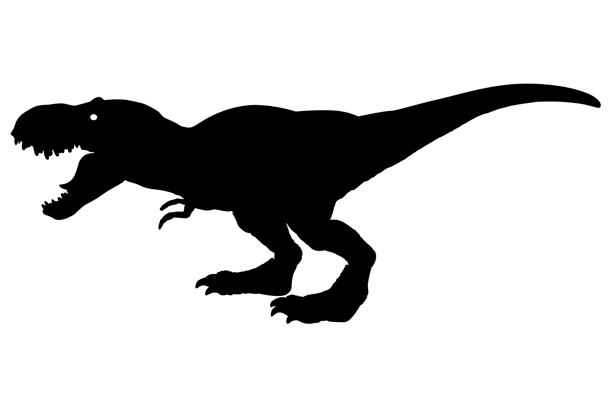
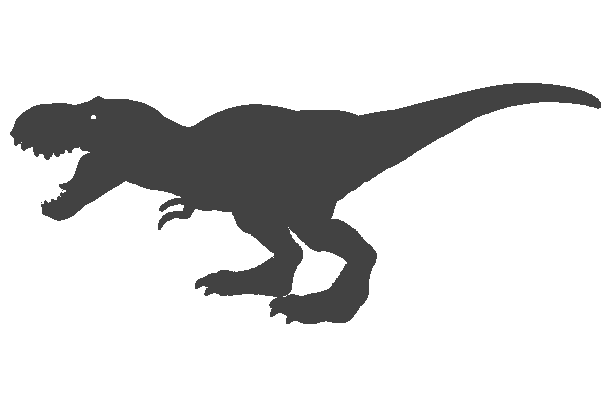
Styling and minor changes

Changed region(s): [[0.0, 0.2059, 0.9935, 0.7941]]

diff --git a/kantor-rex/src/components/kantor_form/kantorForm.tsx b/kantor-rex/src/components/kantor_form/kantorForm.tsx
@@ -1,6 +1,8 @@
 import React, { useState, FormEvent, ChangeEvent } from "react";
 import axios from "axios";
 import { useNavigate } from "react-router-dom";
+import styles from "./kantorForm.module.scss";
+import classNames from "classnames";
 
 interface MarkerData {
   lat: number;
@@ -8,7 +10,7 @@ interface MarkerData {
   title: string;
 }
 
-export const KantorForm: React.FC = () => {
+export const KantorForm = () => {
   const [formData, setFormData] = useState<MarkerData>({
     lat: 0,
     lng: 0,
@@ -54,35 +56,39 @@ export const KantorForm: React.FC = () => {
   };
 
   return (
-    <form onSubmit={handleSubmit}>
-      <label>
-        Latitude:
+    <div className={classNames(styles.form_container)}>
+      <form onSubmit={handleSubmit} className={classNames(styles.form_field_wrapper)}>
+        <label className={classNames(styles.form_label)}>Latitude:</label>
         <input
           type="number"
           name="lat"
           value={formData.lat}
           onChange={handleChange}
+          className={classNames(styles.form_input)}
         />
-      </label>
-      <label>
-        Longitude:
+
+        <label className={classNames(styles.form_label)}>Longitude:</label>
         <input
           type="number"
           name="lng"
           value={formData.lng}
           onChange={handleChange}
+          className={classNames(styles.form_input)}
         />
-      </label>
-      <label>
-        Title:
+
+        <label className={classNames(styles.form_label)}>Title:</label>
         <input
           type="text"
           name="title"
           value={formData.title}
           onChange={handleChange}
+          className={classNames(styles.form_input)}
         />
-      </label>
-      <button type="submit">Dodaj marker</button>
-    </form>
+
+        <button type="submit" className={classNames(styles.form_button)}>
+          Dodaj marker
+        </button>
+      </form>
+    </div>
   );
 };

diff --git a/kantor-rex/src/components/header/header.tsx b/kantor-rex/src/components/header/header.tsx
@@ -2,28 +2,41 @@ import { Link } from "react-router-dom";
 import styles from "./header.module.scss";
 import classNames from "classnames";
 import t_rex from "../../assets/t-rex.png";
+import t_rex_orange from "../../assets/t-rex-orange.png";
+import { useState } from "react";
 
-export interface HeaderProps {
-  className?: string;
-}
+export const Header = () => {
+  const [isHover, setIsHover] = useState(false);
 
-export const Header = ({ className }: HeaderProps) => {
+  const handleHover = (hover: boolean) => {
+    setIsHover(hover);
+  };
+
   return (
-    <div className={classNames(styles.root, className, styles.header)}>
-      <Link to="/" className={styles.a}>
-        <div className={styles.logo}>
-          <h1 className={styles.h1}>Kantor</h1>
-          <img src={t_rex} alt="Rex" className={styles.rex} />
-        </div>
-      </Link>
+    <div className={styles.header}>
       <nav className={styles.nav}>
-        <ul>
-          <li>
+        <ul className={styles.ul}>
+          <li className={styles.li}>
+            <Link
+              to="/"
+              className={classNames(styles.a, styles.logo)}
+              onMouseEnter={() => handleHover(true)}
+              onMouseLeave={() => handleHover(false)}
+            >
+              <h1 className={styles.h1}>Kantor</h1>
+              <img
+                src={isHover ? t_rex_orange : t_rex}
+                alt="Rex"
+                className={classNames(styles.rex, styles.rex_black)}
+              />
+            </Link>
+          </li>
+          <li className={styles.li}>
             <Link to="/add-new-currency-exchange">
               Add New Currency Exchange
             </Link>
           </li>
-          <li>
+          <li className={styles.li}>
             <Link to="/">Map</Link>
           </li>
         </ul>

diff --git a/kantor-rex/src/components/header/header.module.scss b/kantor-rex/src/components/header/header.module.scss
@@ -1,40 +1,44 @@
+@import "../../global_variables";
+
+$header-height: 70px;
+$nav-item-margin: 20px;
+$logo-height: 70px;
+
 .header {
-  height: 70px;
+  height: $header-height;
+  width: 100%;
   display: flex;
-  flex-direction: row;
-  flex-wrap: wrap;
   align-items: center;
-  padding: 0px;
-  margin: 0px;
-  background-color: lavender;
-}
-.rex {
-  display: block;
-  grid-auto-flow: row;
-  position: static;
-  flex-direction: row;
-  flex-wrap: wrap;
-  height: 3em;
-}
-.h1 {
-  display: block;
-  margin: 0;
-  text-decoration-color: #000000;
-}
-.logo {
-  display: flex;
-  align-self: center;
-  flex-direction: row;
-  align-items: center;
-  justify-items: center;
-  flex-wrap: wrap;
-  align-content: center;
-  justify-content: space-evenly;
-  position: relative;
-}
-.a {
-  position: relative;
-  text-decoration: none;
-  color: inherit;
-  left: 20px;
+  background-color: $secondary-color;
+  .nav {
+    ul {
+      list-style: none;
+      display: flex;
+      align-items: center;
+      margin: 0;
+      padding: 0;
+      li {
+        margin-left: $nav-item-margin;
+        display: inline;
+        a {
+          text-decoration: none;
+          color: $primary-color;
+          &:hover {
+            color: $accent-color;
+          }
+        }
+        .logo {
+          display: flex;
+          flex-direction: row;
+          align-items: center;
+          .h1 {
+            margin: 0;
+          }
+          .rex {
+            height: $logo-height;
+          }
+        }
+      }
+    }
+  }
 }

diff --git a/kantor-rex/src/components/kantor_form/kantorForm.module.scss b/kantor-rex/src/components/kantor_form/kantorForm.module.scss
@@ -1,0 +1,50 @@
+@import "../../global_variables";
+
+$label_margin: 10px;
+$button_margin: 20px;
+$input_padding: 10px 15px;
+$input_border_radius: 5px;
+$input_border: 1px solid $secondary-color;
+$input_width: 70%;
+$button_background_color: $accent-color;
+$button_text_color: $secondary-color;
+$label_color: $secondary-color;
+$button_padding: 10px 20px;
+$button_border: none;
+$button_border_radius: 5px;
+$button_cursor: pointer;
+
+.form_container {
+  display: flex;
+  justify-content: center;
+  .form_field_wrapper {
+    width: 100%;
+    max-width: 1000px;
+    display: flex;
+    flex-direction: column;
+    align-items: center;
+    .form_label {
+      color: $label_color;
+      margin-top: $label_margin;
+    }
+    .form_input {
+      background-color: $secondary-color;
+      padding: $input_padding;
+      border-radius: $input_border_radius;
+      border: $input_border;
+      width: 100%;
+      box-sizing: border-box;
+    }
+    .form_button {
+      background-color: $button_background_color;
+      color: $button_text_color;
+      padding: $button_padding;
+      border: $button_border;
+      border-radius: $button_border_radius;
+      cursor: $button_cursor;
+      width: 100%;
+      box-sizing: border-box;
+      margin-top: $button_margin + $label_margin;
+    }
+  }
+}

diff --git a/kantor-rex/src/App.module.scss b/kantor-rex/src/App.module.scss
@@ -1,44 +1,29 @@
+@import 'global_variables';
+body{
+  background-color: $primary-color;
+}
 .App {
-  text-align: center;
-  display: flex;
-  justify-items: center;
-  background-color: #282c34;
-  width: 100vw;
-  flex-direction: column;
-  position: absolute;
-  height: 100vh;
-}
-
-.App-logo {
-  height: 40vmin;
-  pointer-events: none;
-}
-
-@media (prefers-reduced-motion: no-preference) {
-  .App-logo {
-    animation: App-logo-spin infinite 20s linear;
-  }
-}
-
-.App-content {
+  width: 100%;
+  margin: 0;
+  padding: 0;
   display: flex;
   flex-direction: column;
-  align-items: center;
-  justify-content: center;
-  font-size: calc(10px + 2vmin);
-  color: white;
-  align-content: center;
+  .Content {
+    width: 100%;
+    display: flex;
+    flex: 1;
+    text-align: center;
+    justify-items: center;
+    flex-direction: column;
+    align-items: center;
+    font-size: calc(10px + 2vmin);
+    color: $secondary-color;
+    a{
+      color: inherit;
+      &:hover{
+        color: $accent-color;
+      }
+    }
+  }
 }
 
-.App-link {
-  color: #61dafb;
-}
-
-@keyframes App-logo-spin {
-  from {
-    transform: rotate(0deg);
-  }
-  to {
-    transform: rotate(360deg);
-  }
-}

diff --git a/kantor-rex/src/App.tsx b/kantor-rex/src/App.tsx
@@ -1,9 +1,10 @@
 import React from "react";
 import { BrowserRouter as Router, Routes, Route, Link } from "react-router-dom";
+import classNames from "classnames";
 import styles from "./App.module.scss";
 import { Header } from "./components/header/header";
 import Map from "./components/map/map";
-import { KantorForm } from "./components/kantor_form/KantorForm";
+import { KantorForm } from "./components/kantor_form/kantorForm";
 
 export default function App() {
   return (
@@ -20,21 +21,13 @@ export default function App() {
 }
 
 function AppContent() {
-  const [data, setData] = React.useState(null);
-  React.useEffect(() => {
-    fetch("/api")
-      .then((res) => res.json())
-      .then((data) => setData(data.message));
-  }, []);
-
   return (
-    <div className={styles["App-content"]}>
+    <div className={classNames(styles.App, styles.Content)}>
       <h2>Znajdź kantor w okolicy i sprawdź jego kurs</h2>
       <Map />
       <Link to="/add-new-currency-exchange">
         <h3>Nie ma Twojego ulubionego kantoru? Dodaj go do naszego serwisu</h3>
       </Link>
-      <p>{data}</p>
     </div>
   );
 }

diff --git a/kantor-rex/src/components/map/map.tsx b/kantor-rex/src/components/map/map.tsx
@@ -15,7 +15,6 @@ interface MarkerData {
 }
 
 const center = { lat: 54.465336805884164, lng: 17.02574142924235 };
-// const markerPosition = { lat: 54.45232, lng: 17.04403 };
 const defaultMarkers: MarkerData[] = [
   {id: 1, lat: 64.45232, lng: 17.04403, title: "Akademik"},
   {id: 2, lat: 54.46118, lng: 25.04829, title: "Uczelnia"},

diff --git a/kantor-rex/src/components/map/map.module.scss b/kantor-rex/src/components/map/map.module.scss
@@ -1,11 +1,6 @@
-.root {
-  display: flex;
+.map {
   height: 500px;
   width: 500px;
-}
-.map {
-  width: 100%;
-  height: 100%;
 }
 .map_container {
   width: 100%;

diff --git a/kantor-rex/src/_global_variables.scss b/kantor-rex/src/_global_variables.scss
@@ -1,0 +1,3 @@
+$primary-color: #424242;
+$secondary-color: #fef9f3;
+$accent-color: #de9151;
